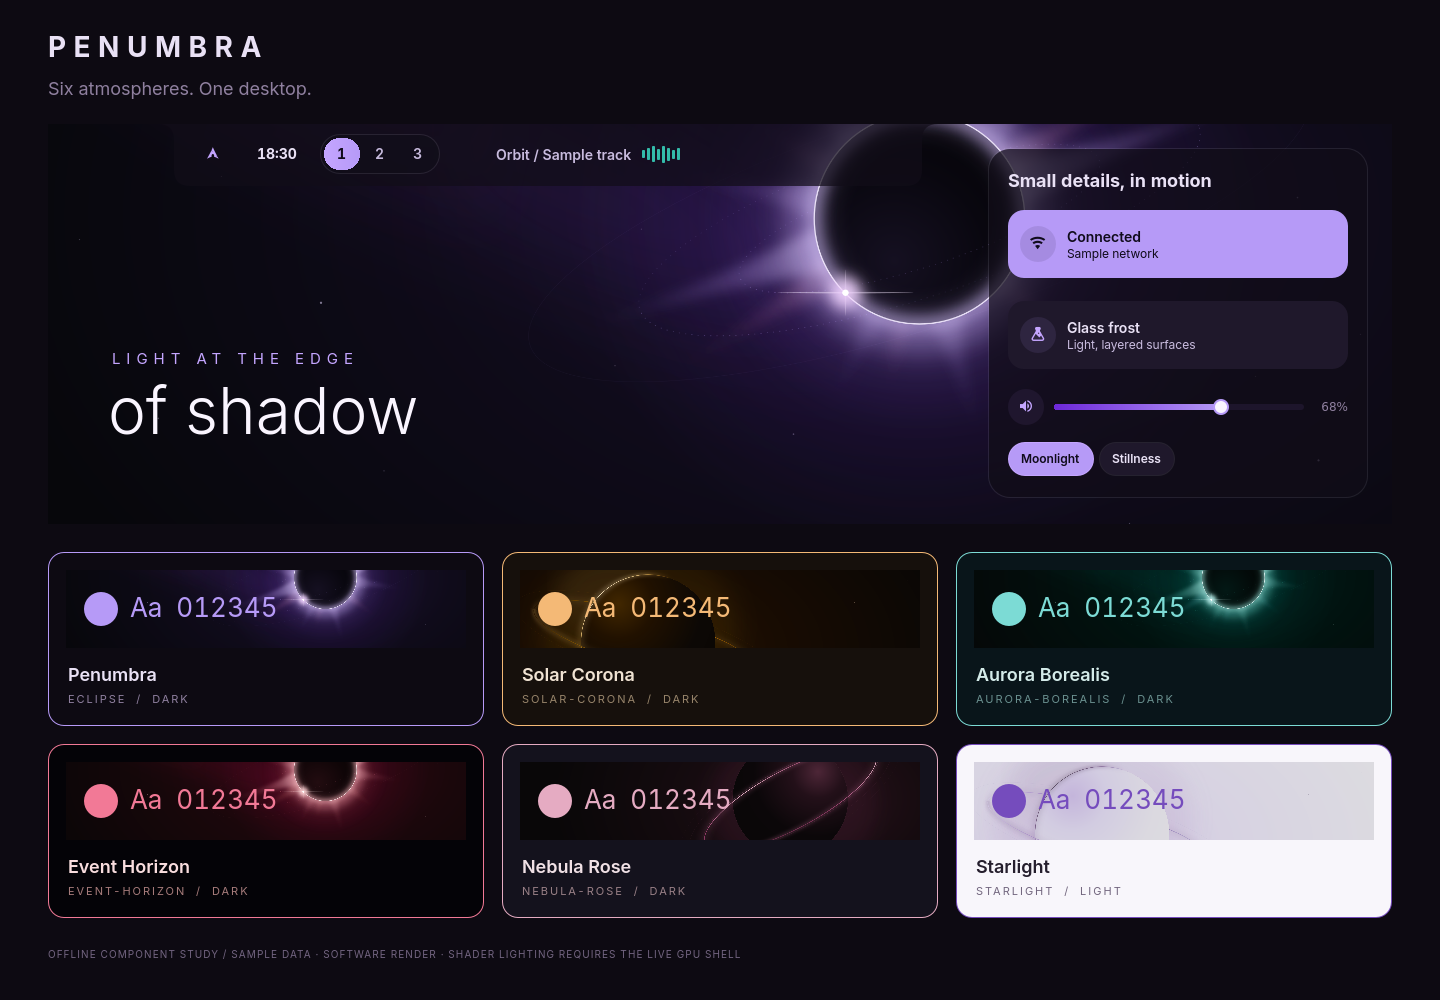
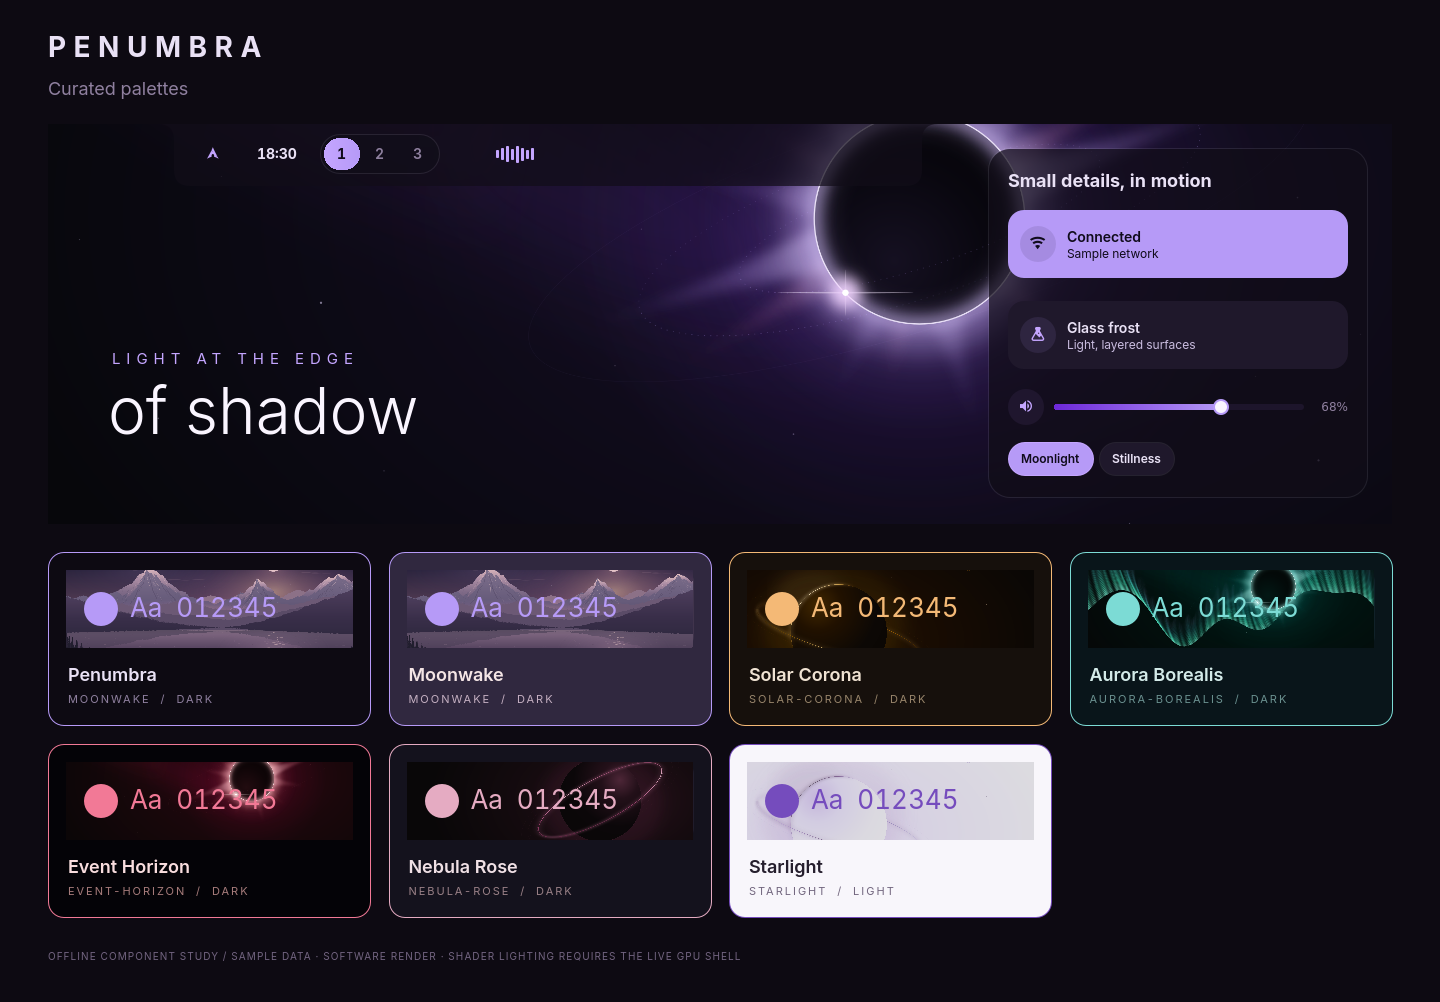
adjust ui color for moonwake wallpaper

diff --git a/tools/preview-polish.py b/tools/preview-polish.py
@@ -23,13 +23,13 @@ import Quickshell
 ShellRoot {
     FloatingWindow {
         visible: true
-        implicitWidth: 1440; implicitHeight: 1000
+        implicitWidth: 1440; implicitHeight: presetGrid.y + presetGrid.implicitHeight + 84
         Rectangle {
             id: scene
             anchors.fill: parent
             color: Theme.base
             Label { x: 48; y: 30; text: "P E N U M B R A"; font.pixelSize: 28; font.weight: Font.Bold }
-            Label { x: 48; y: 78; text: "Six atmospheres. One desktop."; color: Theme.muted; font.pixelSize: 18 }
+            Label { x: 48; y: 78; text: "Curated palettes"; color: Theme.muted; font.pixelSize: 18 }
             Rectangle {
                 x: 48; y: 124; width: 1344; height: 400
                 radius: Theme.radiusLarge
@@ -72,14 +72,16 @@ ShellRoot {
                 result: ({kind: "app", entry: {name: "Sample app", comment: "An offline preview", icon: ""}})
             }
             Grid {
-                x: 48; y: 552; columns: 3; spacing: 18
+                id: presetGrid
+                x: 48; y: 552; width: scene.width - 2 * x; columns: 4; spacing: 18
                 Repeater {
                     model: PRESETS
                     delegate: Rectangle {
                         required property var modelData
-                        width: 436; height: 174; radius: 16
+                        width: (presetGrid.width - (presetGrid.columns - 1) * presetGrid.spacing) / presetGrid.columns
+                        height: 174; radius: 16
                         color: modelData.base; border.color: modelData.accent
-                        Rectangle { x: 18; y: 18; width: 400; height: 78; radius: 12; color: modelData.surface
+                        Rectangle { x: 18; y: 18; width: parent.width - 2 * x; height: 78; radius: 12; color: modelData.surface
                             Image { anchors.fill: parent; source: modelData.artwork; fillMode: Image.PreserveAspectCrop }
                             Row { x: 18; y: 22; spacing: 12
                                 Rectangle { width: 34; height: 34; radius: 17; color: modelData.accent }
@@ -91,7 +93,7 @@ ShellRoot {
                     }
                 }
             }
-            Label { x: 48; y: 948; text: "OFFLINE COMPONENT STUDY / SAMPLE DATA · SOFTWARE RENDER · SHADER LIGHTING REQUIRES THE LIVE GPU SHELL"; color: Theme.dim; font.pixelSize: 10; font.letterSpacing: 1.1 }
+            Label { x: 48; y: presetGrid.y + presetGrid.height + 32; text: "OFFLINE COMPONENT STUDY / SAMPLE DATA · SOFTWARE RENDER · SHADER LIGHTING REQUIRES THE LIVE GPU SHELL"; color: Theme.dim; font.pixelSize: 10; font.letterSpacing: 1.1 }
         }
         Timer { interval: 1200; running: true; onTriggered: {
             if (!previewMedia.hasArtwork) {

diff --git a/share/penumbra/palette.py b/share/penumbra/palette.py
@@ -226,6 +226,13 @@ def guard(colors):
 PRESETS = {
     'penumbra': dict(title='Penumbra', mode='dark', hue=297, vividness=1,
                      wallpaper='wallpaper-moonwake', base='#0d0a12', surface='#100d18', accent='#b69af7'),
+    'moonwake': dict(title='Moonwake', mode='dark', hue=297, vividness=1,
+                     wallpaper='wallpaper-moonwake', base='#30283f', surface='#40344c', accent='#b69af7',
+                     tones=dict(shade='#211c30', viewAlt='#45394f', surfaceAlt='#493c54', raised='#514359',
+                                button='#514359', buttonAlt='#5a4963', glassRaised='#62516d', hover='#64516e',
+                                border='#705d79', light='#88738c', mid='#79657a', textSelection='#624b74',
+                                white='#fff1ec', text='#f4e5e5', textSoft='#dfcdd8', subtle='#d1bdcc',
+                                muted='#c4afc1', dim='#bba5b8', accentSoft='#cfb5ea')),
     'solar-corona': dict(title='Solar Corona', mode='dark', hue=65, vividness=.9,
                          wallpaper='wallpaper-solar-corona', base='#16100c', surface='#211811', accent='#f4b976'),
     'aurora-borealis': dict(title='Aurora Borealis', mode='dark', hue=185, vividness=.85,
@@ -252,6 +259,7 @@ def preset_palette(palettes, mode, name):
             L, C, H = hex_to_oklch(colors[key])
             colors[key] = oklch_to_hex(max(0, min(1, L + delta)), C, H)
         colors.update({key: preset[key] for key in ('base', 'surface', 'accent')})
+        colors.update(preset.get('tones', {}))
     for ink, (fill, least) in INKS.items():
         colors[ink] = choose_ink(palettes[mode], colors, ink, fill, least,
                                 preset['hue'] - BASE_HUE, preset['vividness'])

diff --git a/tools/build-wallpapers.py b/tools/build-wallpapers.py
@@ -23,11 +23,9 @@ scenes = {'wallpaper-moonwake': dict(title='Moonwake', scene='moonwake', folder=
           'wallpaper': dict(title='Night', scene='', folder=''),
           'wallpaper-dawn': dict(title='Dawn', scene='dawn', folder='dawn', tint='#f3b4d6'),
           'wallpaper-eclipse': dict(title='Eclipse', scene='eclipse', folder='eclipse', tint='#c4a6ff')}
-for key, preset in palette.PRESETS.items():
-    if key == 'penumbra':
-        continue
+for key, source in artwork.SOURCES.items():
+    preset = palette.PRESETS[key]
     name = preset['wallpaper']
-    source = artwork.SOURCES[key]
     (assets / (name + '.svg')).write_text(artwork.preset_scene((assets / (source + '.svg')).read_text(), preset))
     scene = scenes[source]['scene']
     scenes[name] = dict(title=preset['title'], scene=scene, folder=key if scene else '', tint=preset['accent'])

diff --git a/tests/test_artwork.py b/tests/test_artwork.py
@@ -33,9 +33,9 @@ class Artwork(unittest.TestCase):
         for key, preset in palette.PRESETS.items():
             with self.subTest(preset=key):
                 name = preset['wallpaper']
-                source = artwork.SOURCES[key]
                 svg = (ROOT / 'assets' / (name + '.svg')).read_text()
-                if key != 'penumbra':
+                if key in artwork.SOURCES:
+                    source = artwork.SOURCES[key]
                     self.assertEqual(svg, artwork.preset_scene((ROOT / 'assets' / (source + '.svg')).read_text(), preset))
                 clean = (ROOT / 'assets' / (name + '-clean.svg')).read_text()
                 self.assertNotIn('<text', clean)

diff --git a/share/penumbra/artwork.py b/share/penumbra/artwork.py
@@ -8,7 +8,6 @@ import re
 import palette
 
 SOURCES = {
-    'penumbra': 'wallpaper-moonwake',
     'solar-corona': 'wallpaper-dawn',
     'aurora-borealis': 'wallpaper-eclipse',
     'event-horizon': 'wallpaper-eclipse',

diff --git a/docs/appearance.md b/docs/appearance.md
@@ -3,12 +3,13 @@
 ## Curated palettes
 
 **Settings → Look → Curated palettes** applies a complete palette and a paired built-in
-wallpaper scene. The six presets tune background and surface lightness as well as the accent;
+wallpaper scene. The presets tune background and surface lightness as well as the accent;
 the palette engine checks text contrast in both modes. Custom colour edits leave the preset.
 
 | Preset | CLI ID | Paired scene |
 |---|---|---|
 | Penumbra | `penumbra` | Moonwake |
+| Moonwake | `moonwake` | Moonwake |
 | Solar Corona | `solar-corona` | Amber Dawn |
 | Aurora Borealis | `aurora-borealis` | Polar curtain |
 | Event Horizon | `event-horizon` | Rose-red Eclipse |
@@ -16,10 +17,12 @@ the palette engine checks text contrast in both modes. Custom colour edits leave
 | Starlight | `starlight` | Pearl Dawn |
 
 ```bash
-penumbra-theme set preset=solar-corona
+penumbra-theme set preset=moonwake
 penumbra-theme set colors=default mode=dark
 ```
 
+The Moonwake preset pairs the lake’s dusk-indigo background with muted plum panels, pearl text
+and Penumbra’s lavender accent. [Preview the Moonwake palette and aura](../previews/moonwake-palette.webp).
 The second command restores the default palette while keeping the selected wallpaper.
 Aurora Borealis adds a folded mint curtain across the sky, visible in the [tiled workspace capture](../previews/aurora-workspace.png).
 Each preset now pairs its palette with coordinated artwork. `tools/build-wallpapers.py`
@@ -50,7 +53,7 @@ corners still apply.
 
 ## Wallpapers
 
-**Moonwake** is the default Penumbra scene. A full moon lights a violet alpine lake. Thin clouds drift over the peaks and the reflection ripples between the banks. Enable **Depth clock** in Settings → Bar, dock & desktop to place the date and time in the mountain saddle. **Audio aura** places fourteen separate bars of light along the far shore, from bass on the left to treble on the right. Each bar rises with its own frequency band and casts a short reflection on the lake. [Animated preview](../previews/moonwake.webp)
+**Moonwake** is the default Penumbra scene. A full moon lights a violet alpine lake. Thin clouds drift over the peaks and the reflection ripples between the banks. Enable **Depth clock** in Settings → Bar, dock & desktop to place the date and time in the mountain saddle. **Audio aura** places fourteen separate bars of light along the far shore, from bright yellow bass bands on the left to violet treble bands on the right. Each bar rises with its own frequency band and casts a short reflection on the lake. [Animated preview](../previews/moonwake.webp)
 
 **Wallpaper picker** (Super+Shift+W, or the wallpaper button in the control center): Penumbra's built-in wallpapers, then the images, GIFs and videos in `~/Pictures/Wallpapers` (Open folder creates and opens it); click one to switch, or move with the arrow keys (Tab, Home and End too) and press Enter.
 
